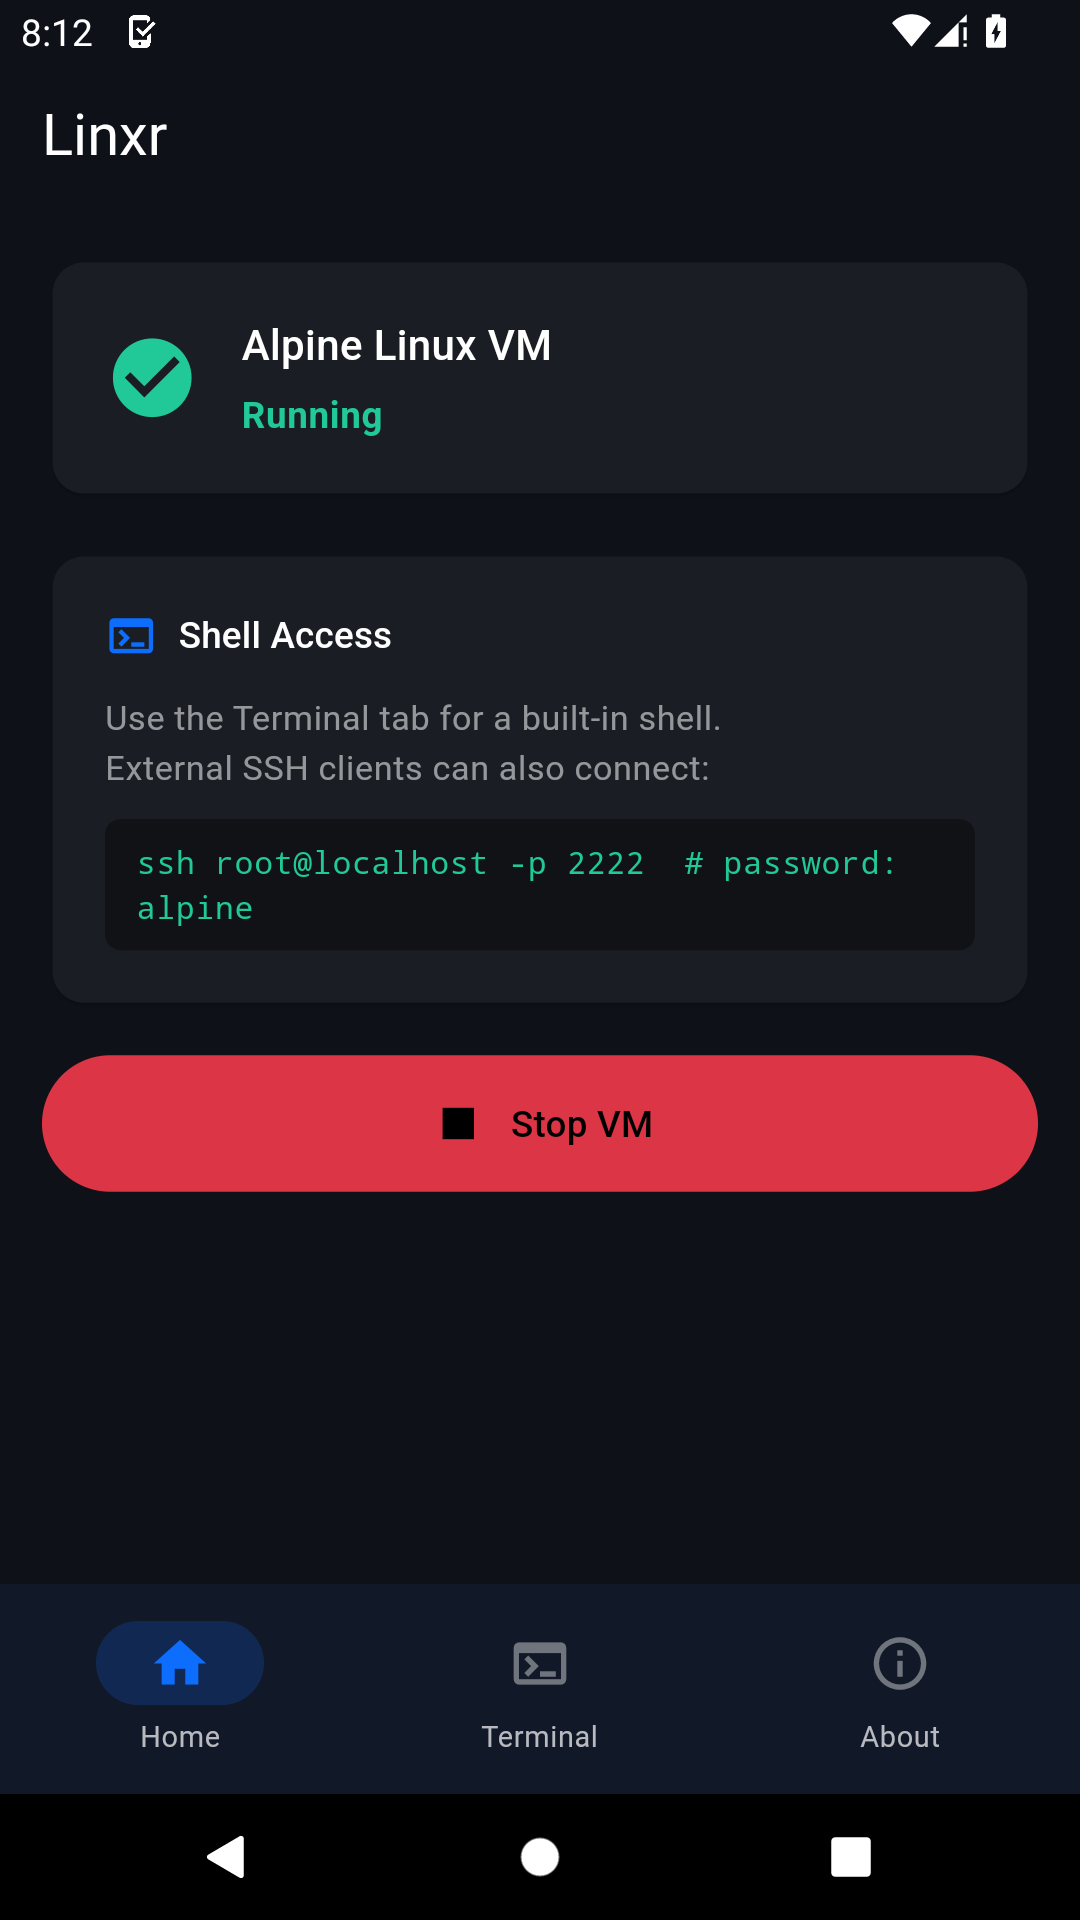
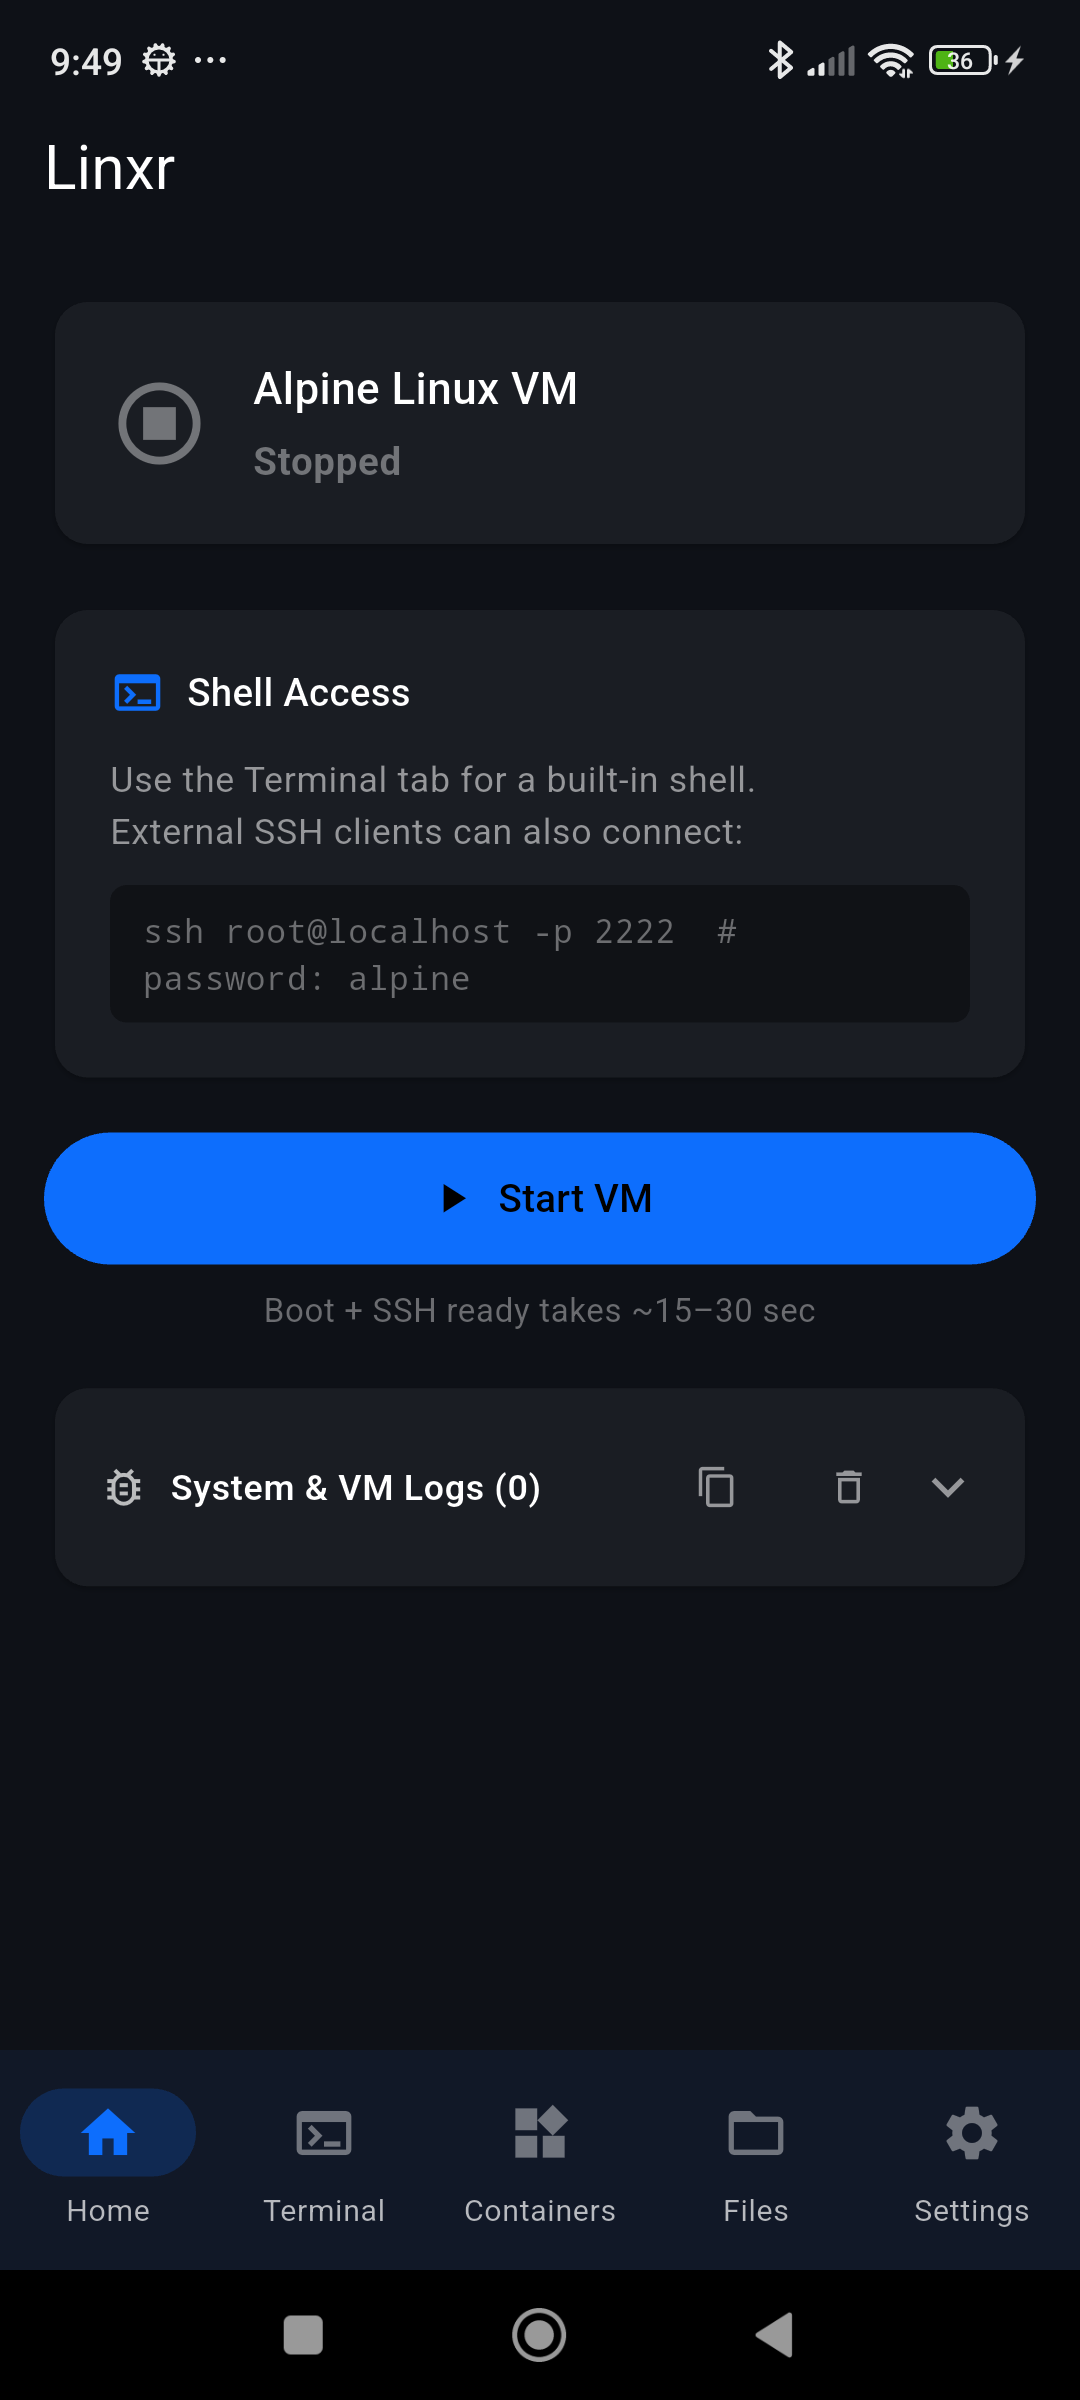
Remove 15s boot card, add Pockr deprecation notice, add updated screenshots for Home, Terminal, Containers, Files, Settings

diff --git a/linxr.html b/linxr.html
@@ -64,12 +64,7 @@
         <div class="feature-item">
           <div class="feature-icon">🐳</div>
           <div class="feature-title">Docker & Container Manager</div>
-          <div class="feature-desc">Integrated Pockr container dashboard to deploy, log, and manage Docker containers</div>
-        </div>
-        <div class="feature-item">
-          <div class="feature-icon">⚡</div>
-          <div class="feature-title">15-Second Boot Speed</div>
-          <div class="feature-desc">Optimized SSH probe locks and Virtio-9P passthrough for instant bootup</div>
+          <div class="feature-desc">Integrated container dashboard to deploy, log, and manage Docker containers</div>
         </div>
         <div class="feature-item">
           <div class="feature-icon">📡</div>
@@ -80,6 +75,11 @@
           <div class="feature-icon">💾</div>
           <div class="feature-title">Virtio-9P Storage Sharing</div>
           <div class="feature-desc">Direct POSIX file path sharing between Android host and guest Linux VM</div>
+        </div>
+        <div class="feature-item">
+          <div class="feature-icon">🐧</div>
+          <div class="feature-title">Full Alpine Linux Kernel</div>
+          <div class="feature-desc">Real Linux kernel environment with OpenRC init, OpenSSH, and package management</div>
         </div>
         <div class="feature-item">
           <div class="feature-icon">🔓</div>
@@ -96,11 +96,12 @@
       <h2 class="section-title">Test results</h2>
       <p class="section-sub">Screenshots from real device testing.</p>
       <div class="gallery" id="gallery-linxr">
-        <img class="gallery-thumb" src="screenshots/linxr/01-home-stopped.png"      data-caption="Home — VM stopped with System Log Console" alt="Home stopped" />
-        <img class="gallery-thumb" src="screenshots/linxr/02-home-running.png"      data-caption="Home — VM running with real-time serial logs" alt="Home running" />
-        <img class="gallery-thumb" src="screenshots/linxr/03-terminal-connected.png" data-caption="Terminal — Built-in interactive SSH shell" alt="Terminal connected" />
-        <img class="gallery-thumb" src="screenshots/linxr/04-terminal-connecting.png" data-caption="Containers — Integrated Docker Dashboard" alt="Containers dashboard" />
-        <img class="gallery-thumb" src="screenshots/linxr/05-about-main.png"        data-caption="Settings — App parameters & SAF Storage selection" alt="Settings screen" />
+        <img class="gallery-thumb" src="screenshots/linxr/01-home-stopped.png" data-caption="Home — VM stopped with System & VM Logs console" alt="Home stopped" />
+        <img class="gallery-thumb" src="screenshots/linxr/02-home-running.png" data-caption="Home — VM running with real-time kernel serial logs" alt="Home running" />
+        <img class="gallery-thumb" src="screenshots/linxr/03-terminal.png"     data-caption="Terminal — Interactive Alpine Linux SSH shell" alt="Terminal shell" />
+        <img class="gallery-thumb" src="screenshots/linxr/04-containers.png"   data-caption="Containers — Docker container dashboard & logs" alt="Containers dashboard" />
+        <img class="gallery-thumb" src="screenshots/linxr/05-files.png"        data-caption="Files — Built-in file explorer for shared storage" alt="Files explorer" />
+        <img class="gallery-thumb" src="screenshots/linxr/06-settings.png"     data-caption="Settings — App parameters & SAF folder picker" alt="Settings screen" />
       </div>
     </div>
   </section>

diff --git a/pockr.html b/pockr.html
@@ -45,8 +45,12 @@
         tail logs — all from a native Flutter UI backed by a Docker daemon in an Alpine VM.
       </p>
       <div class="project-links">
-        <a href="https://github.com/AI2TH/Pockr" class="btn btn-primary" target="_blank" rel="noopener">GitHub →</a>
-        <a href="https://github.com/AI2TH/Pockr/releases/latest" class="btn btn-ghost" target="_blank" rel="noopener">Download APK</a>
+        <a href="linxr.html" class="btn btn-primary">Switch to Linxr →</a>
+        <a href="https://github.com/AI2TH/Linxr" class="btn btn-ghost" target="_blank" rel="noopener">Linxr GitHub</a>
+      </div>
+      <!-- Deprecation Notice -->
+      <div style="background: rgba(239, 68, 68, 0.12); border: 1px solid rgba(239, 68, 68, 0.4); border-radius: 12px; padding: 16px 20px; margin-top: 24px; color: #fca5a5; font-size: 15px; line-height: 1.5;">
+        <strong>⚠ Deprecation & Merge Notice:</strong> Pockr is deprecated as a standalone application. All Docker container management capabilities, container dashboards, log streaming, and daemon controls have been natively merged into <a href="linxr.html" style="color: #60a5fa; text-decoration: underline; font-weight: 600;">Linxr</a> under the <strong>Containers</strong> tab. We recommend using Linxr for unified Linux VM and Docker management on Android.
       </div>
     </div>
   </div>
